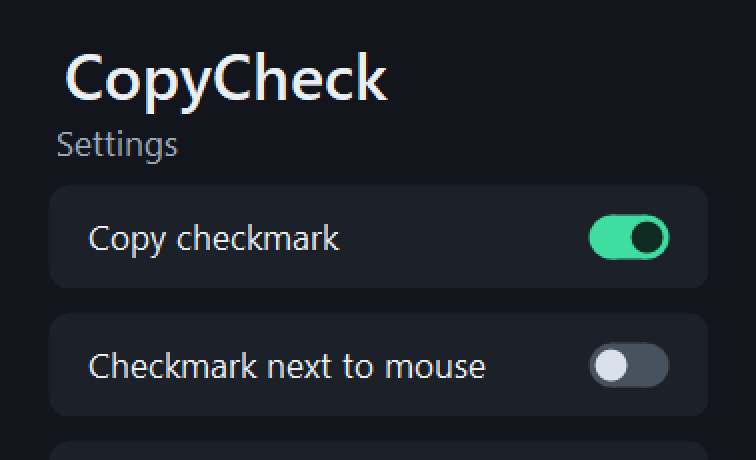
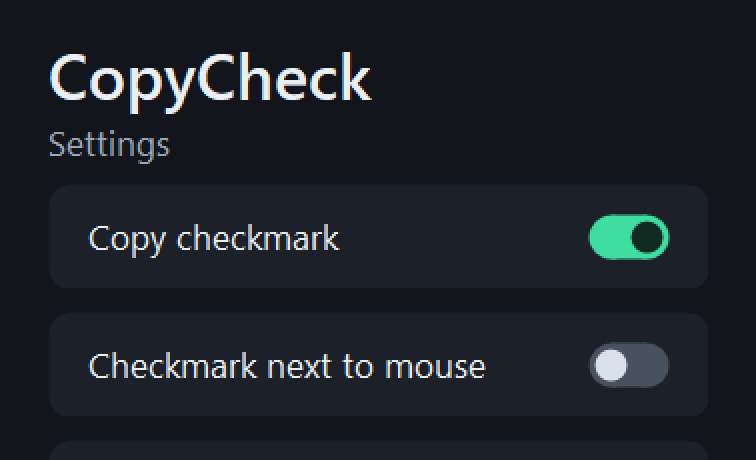
Line the settings headings up with the rows
Windows pads label text on the left by a fraction of the font size, so
at 125% the CopyCheck heading's text started at x=33, Settings at x=28
and Updates at x=29, while the rounded rows start at x=24. Draw these
three labels without that padding; their text now starts at x=24-25.

The before and after screenshots are now screen captures of the real
window at 125%, not harness renders.

Changed region(s): [[0.0608, 0.0913, 0.5172, 0.2435], [0.0608, 0.2739, 0.2434, 0.3652]]

diff --git a/CopyCheck.cs b/CopyCheck.cs
@@ -340,6 +340,17 @@ class Toggle : CheckBox {
         if(Focused && ShowFocusCues) ControlPaint.DrawFocusRectangle(g,new Rectangle(5,5,Width-10,Height-10),ForeColor,BackColor);
     }
 }
+// A label drawn without the padding Windows adds before text, which grows with the font size and
+// pushed the larger headings to the right of the rows they sit above.
+class SectionLabel : Label {
+    const TextFormatFlags Flags = TextFormatFlags.Left | TextFormatFlags.Top | TextFormatFlags.SingleLine | TextFormatFlags.NoPadding;
+    public SectionLabel() { SetStyle(ControlStyles.UserPaint | ControlStyles.AllPaintingInWmPaint | ControlStyles.OptimizedDoubleBuffer,true); }
+    public override Size GetPreferredSize(Size proposedSize) { return TextRenderer.MeasureText(Text,Font,Size.Empty,Flags); }
+    protected override void OnPaint(PaintEventArgs e) {
+        e.Graphics.Clear(BackColor);
+        TextRenderer.DrawText(e.Graphics,Text,Font,ClientRectangle,ForeColor,Flags);
+    }
+}
 class UpdateStatusLabel : Label {
     bool showCheckmark;
     public UpdateStatusLabel() { SetStyle(ControlStyles.UserPaint | ControlStyles.AllPaintingInWmPaint | ControlStyles.OptimizedDoubleBuffer,true); }
@@ -371,8 +382,8 @@ class SettingsForm : Form {
         Font = new Font("Segoe UI",10); FormBorderStyle = FormBorderStyle.FixedDialog; MaximizeBox = false; MinimizeBox = false;
         StartPosition = FormStartPosition.Manual; AutoScaleMode = AutoScaleMode.Dpi;
         icon = Brand.CreateIcon(); Icon = icon;
-        var heading = new Label { Text = "CopyCheck", AutoSize = true, Font = new Font("Segoe UI Semibold",19), Location = new Point(24,14), ForeColor = Brand.Text };
-        var settingsLabel = new Label { Text = "Settings", AutoSize = true, Font = new Font("Segoe UI",10), Location = new Point(24,51), ForeColor = Color.FromArgb(155,168,183) };
+        var heading = new SectionLabel { Text = "CopyCheck", AutoSize = true, Font = new Font("Segoe UI Semibold",19), Location = new Point(24,14), ForeColor = Brand.Text };
+        var settingsLabel = new SectionLabel { Text = "Settings", AutoSize = true, Font = new Font("Segoe UI",10), Location = new Point(24,51), ForeColor = Color.FromArgb(155,168,183) };
         Controls.Add(heading); Controls.Add(settingsLabel);
         var animation = new Toggle { Text = "Copy checkmark", Checked = enabled, Location = new Point(24,83) };
         animation.CheckedChanged += delegate { if(AnimationChanged != null) AnimationChanged(animation.Checked); };
@@ -438,7 +449,7 @@ class SettingsForm : Form {
     UpdateStatusLabel updateStatus;
     Button checkUpdates, installUpdate;
     void AddUpdateControls() {
-        Controls.Add(new Label { Text="Updates",AutoSize=true,Font=new Font("Segoe UI",10),Location=new Point(24,348),ForeColor=Color.FromArgb(155,168,183) });
+        Controls.Add(new SectionLabel { Text="Updates",AutoSize=true,Font=new Font("Segoe UI",10),Location=new Point(24,348),ForeColor=Color.FromArgb(155,168,183) });
         Controls.Add(new Label { Text="Installed version "+Updates.Current,AutoSize=true,Location=new Point(24,653),ForeColor=Color.FromArgb(155,168,183),Font=new Font("Segoe UI",9) });
         var automatic=new Toggle { Text="Check automatically",Checked=AppPreferences.AutomaticUpdates,Location=new Point(24,383) };
         automatic.CheckedChanged += delegate {
